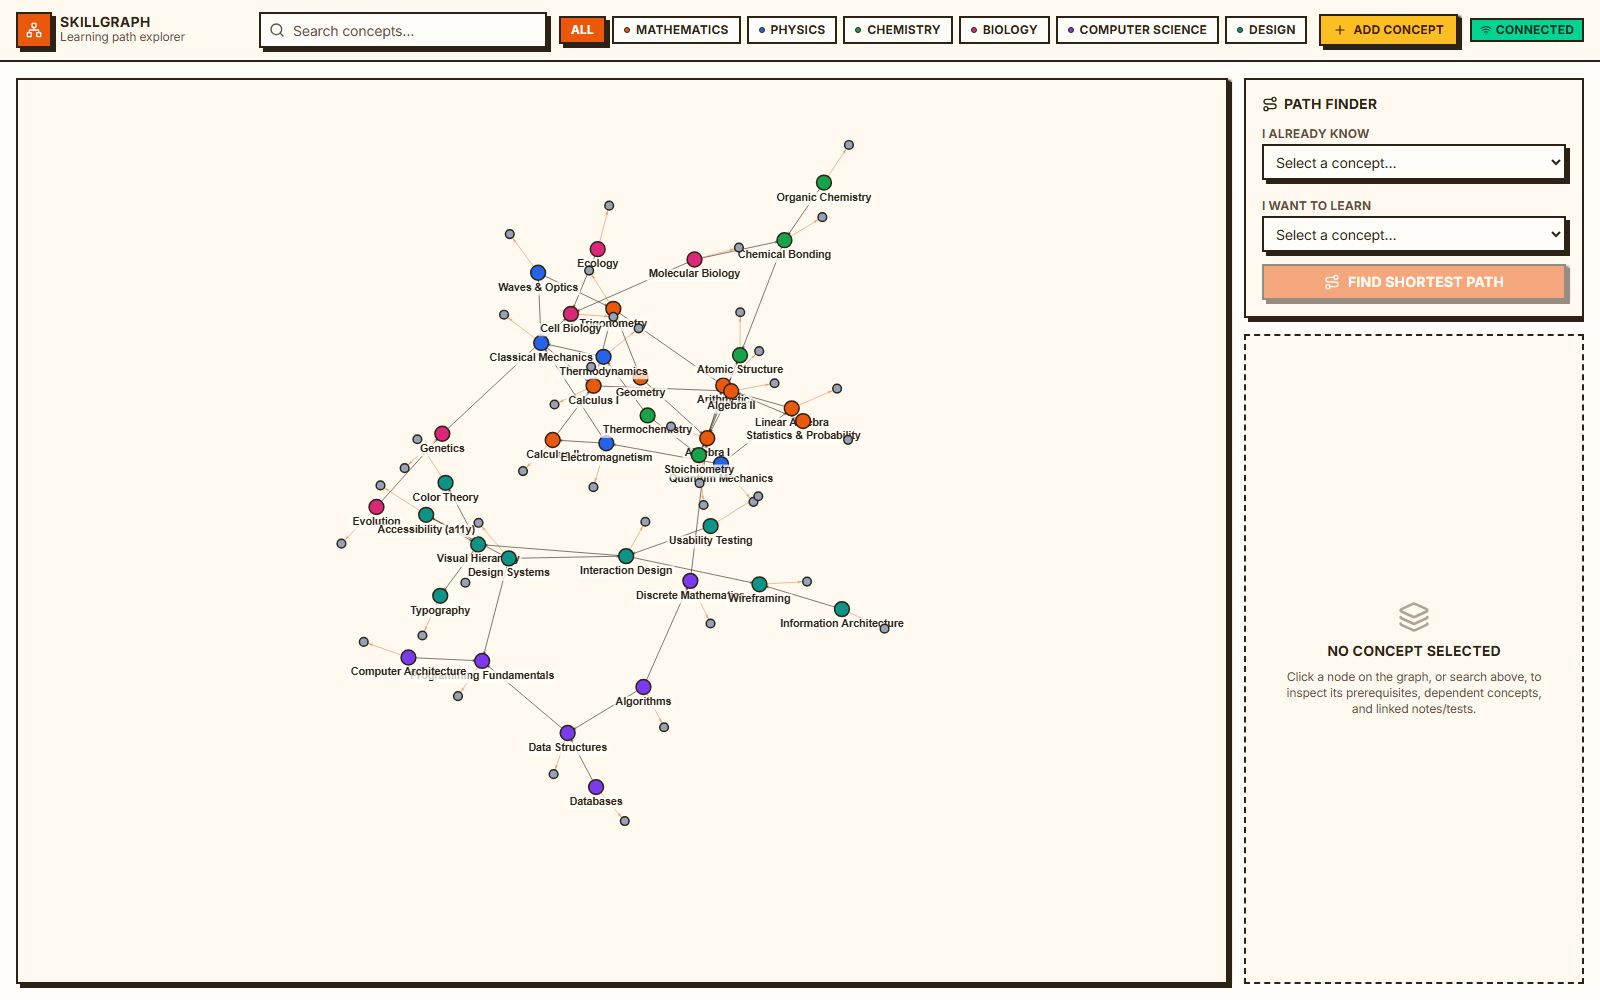
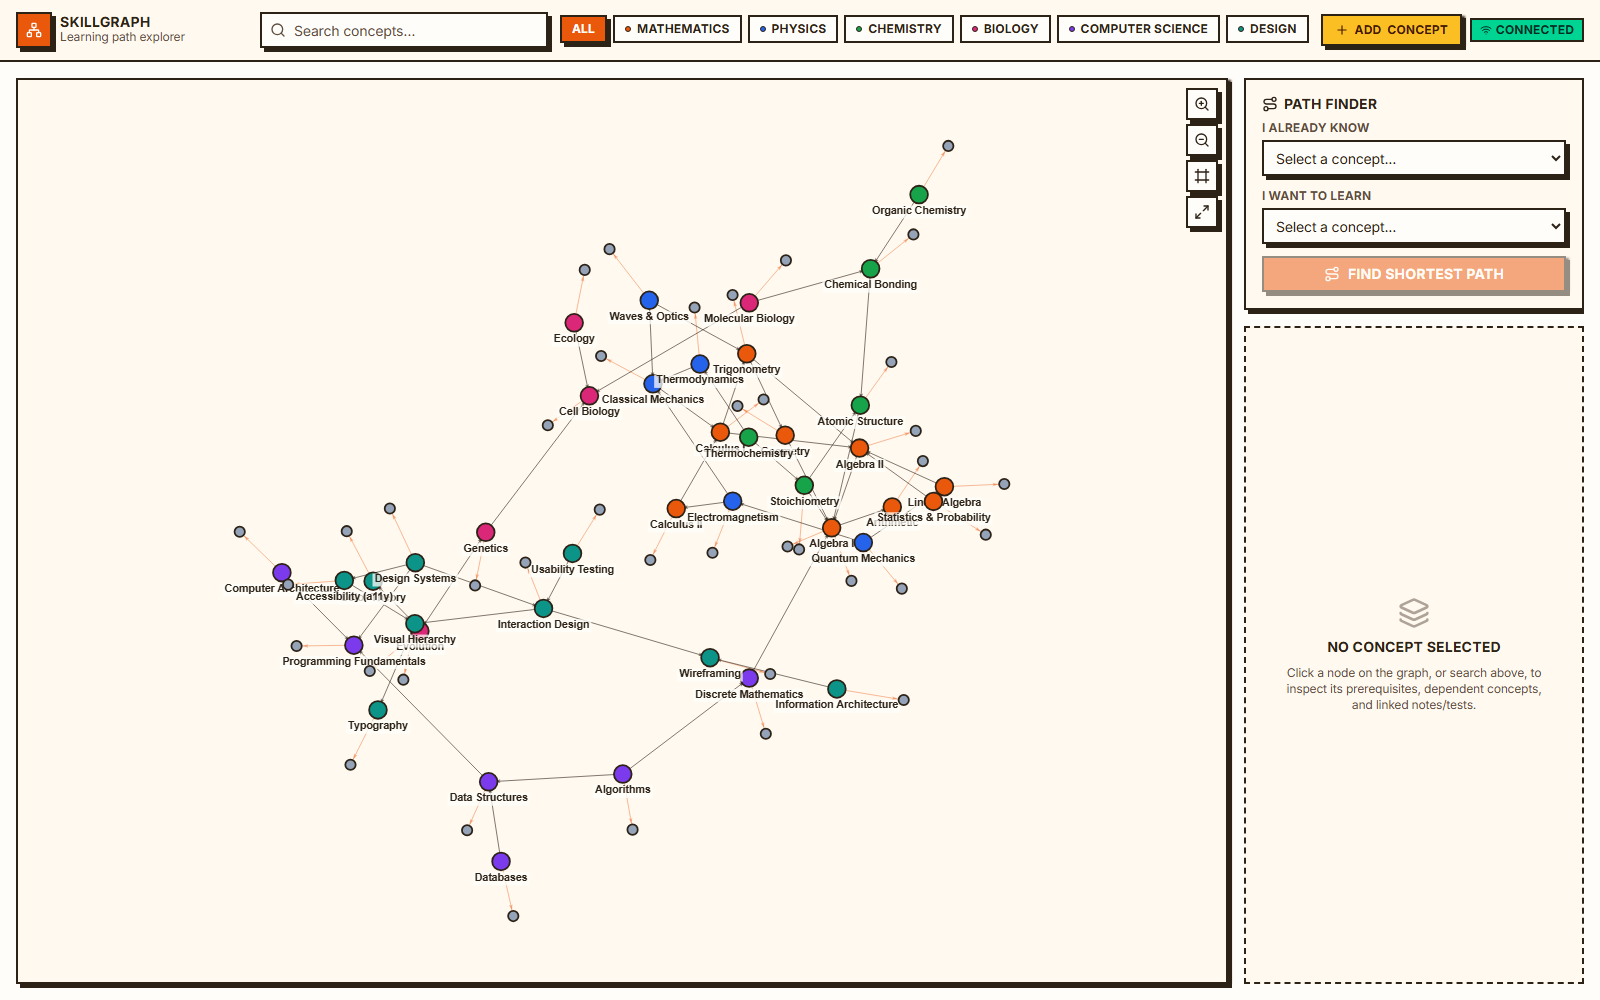
Add canvas controls and make the layout usable on a phone
Canvas had no visible controls, so zoom and pan were undiscoverable
mouse gestures with no way back to a sensible view. Added zoom in/out,
fit-to-view and full screen as an overlay.

Mobile was worse than cramped, it was broken. main carried
overflow-hidden inside an h-screen column, so on a stacked layout the
Path Finder and Concept Inspector sat below the fold with nothing
scrollable, i.e. unreachable on a phone. The page now scrolls below lg
and the canvas takes a fixed share of the viewport.

The header was also eating 298px of an 844px screen because seven
domain pills wrapped onto three rows and the add button and status
badge each claimed a full-width row. Filters now scroll sideways, the
actions sit on the identity row, and the badge and add button drop to
icons on small screens. 298px down to 136px, with no horizontal
overflow.

diff --git a/frontend/src/components/Navbar.tsx b/frontend/src/components/Navbar.tsx
@@ -76,19 +76,26 @@ export function Navbar({
   const suggestions = (remoteHits ?? localHits).slice(0, 8);
 
   return (
-    <header className="flex flex-col gap-3 border-b-2 border-border bg-card px-4 py-3 sm:flex-row sm:items-center sm:justify-between">
+    <header className="flex flex-col gap-2 border-b-2 border-border bg-card px-3 py-2.5 sm:gap-3 sm:px-4 sm:py-3 lg:flex-row lg:items-center lg:justify-between">
       <div className="flex items-center gap-2">
-        <div className="flex h-9 w-9 items-center justify-center rounded-lg border-2 border-border bg-primary text-primary-foreground shadow-xs">
+        <div className="flex h-8 w-8 shrink-0 items-center justify-center rounded-lg border-2 border-border bg-primary text-primary-foreground shadow-xs sm:h-9 sm:w-9">
           <Network className="h-4 w-4" />
         </div>
-        <div>
-          <h1 className="text-sm font-bold uppercase leading-none tracking-wide">SkillGraph</h1>
-          <p className="text-xs text-muted-foreground">Learning path explorer</p>
+        <div className="min-w-0">
+          <h1 className="truncate text-sm font-bold uppercase leading-none tracking-wide">SkillGraph</h1>
+          <p className="hidden text-xs text-muted-foreground sm:block">Learning path explorer</p>
+        </div>
+
+        {/* Pinned to the identity row on phones so the actions never need a row
+            of their own. They move back to the right on large screens. */}
+        <div className="ml-auto flex items-center gap-2 lg:hidden">
+          <AddConceptDialog concepts={concepts} onCreated={onConceptCreated} />
+          <ConnectionBadge status={connectionStatus} />
         </div>
       </div>
 
-      <div className="flex flex-1 flex-col gap-3 sm:flex-row sm:items-center sm:justify-end">
-        <div ref={containerRef} className="relative w-full sm:w-72">
+      <div className="flex flex-1 flex-col gap-2 sm:gap-3 lg:flex-row lg:items-center lg:justify-end">
+        <div ref={containerRef} className="relative w-full lg:w-72">
           <Search className="pointer-events-none absolute left-2.5 top-1/2 h-4 w-4 -translate-y-1/2 text-muted-foreground" />
           <Input
             value={query}
@@ -124,11 +131,11 @@ export function Navbar({
           )}
         </div>
 
-        <div className="flex flex-wrap items-center gap-1.5">
+        <div className="-mx-3 flex items-center gap-1.5 overflow-x-auto px-3 pb-0.5 sm:-mx-4 sm:px-4 lg:mx-0 lg:flex-wrap lg:overflow-visible lg:px-0">
           <button
             onClick={() => onDomainChange(null)}
             className={cn(
-              "rounded-md border-2 border-border px-2.5 py-1 text-xs font-bold uppercase tracking-wide transition-all",
+              "shrink-0 rounded-md border-2 border-border px-2.5 py-1 text-xs font-bold uppercase tracking-wide transition-all",
               activeDomain === null
                 ? "bg-primary text-primary-foreground shadow-xs"
                 : "bg-background hover:bg-accent"
@@ -141,7 +148,7 @@ export function Navbar({
               key={d}
               onClick={() => onDomainChange(activeDomain === d ? null : d)}
               className={cn(
-                "flex items-center gap-1.5 rounded-md border-2 border-border px-2.5 py-1 text-xs font-bold uppercase tracking-wide transition-all",
+                "flex shrink-0 items-center gap-1.5 rounded-md border-2 border-border px-2.5 py-1 text-xs font-bold uppercase tracking-wide transition-all",
                 activeDomain === d ? "text-white shadow-xs" : "bg-background hover:bg-accent"
               )}
               style={activeDomain === d ? { backgroundColor: DOMAIN_COLORS[d] } : undefined}
@@ -155,9 +162,10 @@ export function Navbar({
           ))}
         </div>
 
-        <AddConceptDialog concepts={concepts} onCreated={onConceptCreated} />
-
-        <ConnectionBadge status={connectionStatus} />
+        <div className="hidden items-center gap-2 lg:flex">
+          <AddConceptDialog concepts={concepts} onCreated={onConceptCreated} />
+          <ConnectionBadge status={connectionStatus} />
+        </div>
       </div>
     </header>
   );
@@ -166,21 +174,24 @@ export function Navbar({
 function ConnectionBadge({ status }: { status: ConnectionStatus }) {
   if (status === "checking") {
     return (
-      <Badge variant="secondary" className="gap-1">
-        <Loader2 className="h-3 w-3 animate-spin" /> Checking
+      <Badge variant="secondary" className="gap-1" title="Checking the database connection">
+        <Loader2 className="h-3 w-3 animate-spin" />
+        <span className="hidden sm:inline">Checking</span>
       </Badge>
     );
   }
   if (status === "connected") {
     return (
-      <Badge className="gap-1 border-border bg-emerald-400 text-emerald-950">
-        <Wifi className="h-3 w-3" /> Connected
+      <Badge className="gap-1 border-border bg-emerald-400 text-emerald-950" title="Connected to CognoDB">
+        <Wifi className="h-3 w-3" />
+        <span className="hidden sm:inline">Connected</span>
       </Badge>
     );
   }
   return (
-    <Badge variant="destructive" className="gap-1">
-      <WifiOff className="h-3 w-3" /> Offline
+    <Badge variant="destructive" className="gap-1" title="CognoDB unreachable">
+      <WifiOff className="h-3 w-3" />
+      <span className="hidden sm:inline">Offline</span>
     </Badge>
   );
 }

diff --git a/frontend/src/components/GraphCanvas.tsx b/frontend/src/components/GraphCanvas.tsx
@@ -1,5 +1,6 @@
-import { useEffect, useMemo, useRef, useState, type ComponentType } from "react";
+import { useCallback, useEffect, useMemo, useRef, useState, type ComponentType, type ReactNode } from "react";
 import ForceGraph2D from "react-force-graph-2d";
+import { ZoomIn, ZoomOut, Maximize2, Minimize2, Frame } from "lucide-react";
 import type { GraphOverview, GraphNode, Domain } from "@/lib/api";
 import { DOMAIN_COLORS, NODE_LABEL_COLORS } from "@/lib/domain-colors";
 
@@ -26,6 +27,28 @@ export function GraphCanvas({ data, activeDomain, selectedId, highlightPath, onN
   const hasFitRef = useRef(false);
   const fitKeyRef = useRef<string | null>(null);
   const [dimensions, setDimensions] = useState({ width: 800, height: 600 });
+  const [isFullscreen, setIsFullscreen] = useState(false);
+
+  const zoomBy = useCallback((factor: number) => {
+    const fg = fgRef.current;
+    if (!fg) return;
+    fg.zoom(fg.zoom() * factor, 200);
+  }, []);
+
+  const fitToData = useCallback(() => fgRef.current?.zoomToFit(400, 60), []);
+
+  const toggleFullscreen = useCallback(() => {
+    const el = containerRef.current;
+    if (!el) return;
+    if (document.fullscreenElement) document.exitFullscreen().catch(() => void 0);
+    else el.requestFullscreen?.().catch(() => void 0);
+  }, []);
+
+  useEffect(() => {
+    const onChange = () => setIsFullscreen(document.fullscreenElement === containerRef.current);
+    document.addEventListener("fullscreenchange", onChange);
+    return () => document.removeEventListener("fullscreenchange", onChange);
+  }, []);
 
   useEffect(() => {
     const el = containerRef.current;
@@ -84,7 +107,22 @@ export function GraphCanvas({ data, activeDomain, selectedId, highlightPath, onN
   if (!data) return null;
 
   return (
-    <div ref={containerRef} className="graph-canvas-wrapper h-full w-full">
+    <div ref={containerRef} className="graph-canvas-wrapper relative h-full w-full bg-card">
+      <div className="absolute right-2 top-2 z-10 flex flex-col gap-1">
+        <ControlButton label="Zoom in" onClick={() => zoomBy(1.4)}>
+          <ZoomIn className="h-4 w-4" />
+        </ControlButton>
+        <ControlButton label="Zoom out" onClick={() => zoomBy(1 / 1.4)}>
+          <ZoomOut className="h-4 w-4" />
+        </ControlButton>
+        <ControlButton label="Fit graph to view" onClick={fitToData}>
+          <Frame className="h-4 w-4" />
+        </ControlButton>
+        <ControlButton label={isFullscreen ? "Exit full screen" : "Full screen"} onClick={toggleFullscreen}>
+          {isFullscreen ? <Minimize2 className="h-4 w-4" /> : <Maximize2 className="h-4 w-4" />}
+        </ControlButton>
+      </div>
+
       <ForceGraph
         ref={fgRef}
         width={dimensions.width}
@@ -151,5 +189,27 @@ export function GraphCanvas({ data, activeDomain, selectedId, highlightPath, onN
         }}
       />
     </div>
+  );
+}
+
+function ControlButton({
+  label,
+  onClick,
+  children,
+}: {
+  label: string;
+  onClick: () => void;
+  children: ReactNode;
+}) {
+  return (
+    <button
+      type="button"
+      onClick={onClick}
+      title={label}
+      aria-label={label}
+      className="flex h-8 w-8 items-center justify-center rounded-md border-2 border-border bg-background text-foreground shadow-xs transition-all hover:bg-accent active:translate-x-0.5 active:translate-y-0.5 active:shadow-none"
+    >
+      {children}
+    </button>
   );
 }

diff --git a/frontend/src/App.tsx b/frontend/src/App.tsx
@@ -107,8 +107,8 @@ export default function App() {
         </div>
       )}
 
-      <main className="grid flex-1 grid-cols-1 gap-4 overflow-hidden p-4 lg:grid-cols-[1fr_340px]">
-        <div className="relative min-h-[320px] overflow-hidden rounded-lg border-2 border-border bg-card shadow">
+      <main className="grid flex-1 grid-cols-1 gap-4 overflow-y-auto p-4 lg:grid-cols-[1fr_340px] lg:overflow-hidden">
+        <div className="relative h-[55vh] overflow-hidden rounded-lg border-2 border-border bg-card shadow lg:h-auto lg:min-h-[320px]">
           {loading && (
             <div className="absolute inset-0 z-10 flex items-center justify-center bg-background/60">
               <div className="w-full max-w-sm space-y-3 p-6">
@@ -140,7 +140,7 @@ export default function App() {
           )}
         </div>
 
-        <div className="flex flex-col gap-4 overflow-y-auto">
+        <div className="flex flex-col gap-4 lg:overflow-y-auto">
           <PathFinder
             key={pathFinderKey}
             concepts={concepts}

diff --git a/frontend/src/components/AddConceptDialog.tsx b/frontend/src/components/AddConceptDialog.tsx
@@ -92,7 +92,8 @@ export function AddConceptDialog({ concepts, onCreated }: AddConceptDialogProps)
     >
       <DialogTrigger asChild>
         <Button size="sm" variant="secondary" className="gap-1.5">
-          <Plus className="h-3.5 w-3.5" /> Add Concept
+          <Plus className="h-3.5 w-3.5" />
+          Add<span className="hidden sm:inline"> Concept</span>
         </Button>
       </DialogTrigger>
 

diff --git a/README.md b/README.md
@@ -16,7 +16,7 @@ skillgraph/
 
 ## Screenshots
 
-The full graph. Concepts are coloured by domain, grey nodes are attached notes and tests, and arrows point from a concept to what it requires.
+The full graph. Concepts are coloured by domain, grey nodes are attached notes and tests, and arrows point from a concept to what it requires. The canvas has zoom, fit-to-view and full-screen controls, and also responds to scroll-wheel zoom and drag-to-pan.
 
 ![Graph overview](docs/screenshots/overview.png)
 
@@ -31,6 +31,10 @@ Concepts can be added from the UI, with prerequisites wired up at the same time.
 Filtering to a domain narrows the canvas to those concepts and the notes attached to them, and refits the view.
 
 ![Domain filter](docs/screenshots/domain-filter.png)
+
+The layout works down to phone widths. Domain filters scroll sideways instead of wrapping, the connection badge and add button collapse to icons, and the panels stack under the canvas.
+
+![Mobile layout](docs/screenshots/mobile.png)
 
 ---
 
@@ -327,9 +331,10 @@ Remember to tighten the CORS `origin: "*"` in `backend/src/index.ts` to your dep
 ## Frontend Tour
 
 - **Top bar**: search with autocomplete, domain filter pills, and a live connection status indicator (checking / connected / offline, polled every 15s via `/api/health`).
-- **Center canvas** (`GraphCanvas.tsx`): force-directed graph, Concept nodes colored by domain, Resource nodes muted, directed arrows for `REQUIRES` edges, click any node to inspect it, selected/path nodes get a highlighted ring.
+- **Center canvas** (`GraphCanvas.tsx`): force-directed graph, Concept nodes colored by domain, Resource nodes muted, directed arrows for `REQUIRES` edges, click any node to inspect it, selected/path nodes get a highlighted ring. Overlay controls give zoom in/out, fit-to-view and full screen; the view also auto-fits on first settle and whenever the domain filter changes the visible set.
 - **Path Finder** (`PathFinder.tsx`): pick a source and target concept, get the shortest `REQUIRES` path with hop count; the path also highlights on the canvas.
 - **Concept Inspector** (`ConceptDrawer.tsx`): direct and indirect prerequisites with hop distance, concepts this one unlocks, and linked notes/tests. Everything here is editable in place: rename a concept, change its domain or difficulty, add or unlink a prerequisite, and add, edit or delete a resource. Only *direct* prerequisites offer a remove control, since a 2-hop entry is implied by the chain rather than backed by a single edge you could delete.
+- **Responsive down to phone widths.** Below `lg` the panels stack under the canvas and the page scrolls, rather than being clipped by the desktop's fixed-height layout. The header collapses from 298px to 136px on a 390px screen by scrolling the domain filters sideways and reducing the badge and add button to icons.
 - **Loading, empty and error states** throughout: skeletons while a concept loads, an empty state before anything is selected, a retry banner when the database is unreachable, and inline errors on every write.
 
 The UI is a **neobrutalist** theme: zero border radius, thick 2px dark borders, and hard 4px offset drop-shadows (no blur) that flatten to nothing on press/hover for a tactile, physical feel. See the button, card, and badge components under `frontend/src/components/ui/`. The whole palette (`frontend/src/index.css`) is a fixed set of CSS custom properties consumed by Tailwind v4's `@theme inline`. Light and dark variants are both defined there, so don't hand-edit the hex values, shadows, or radius tokens without updating both.
